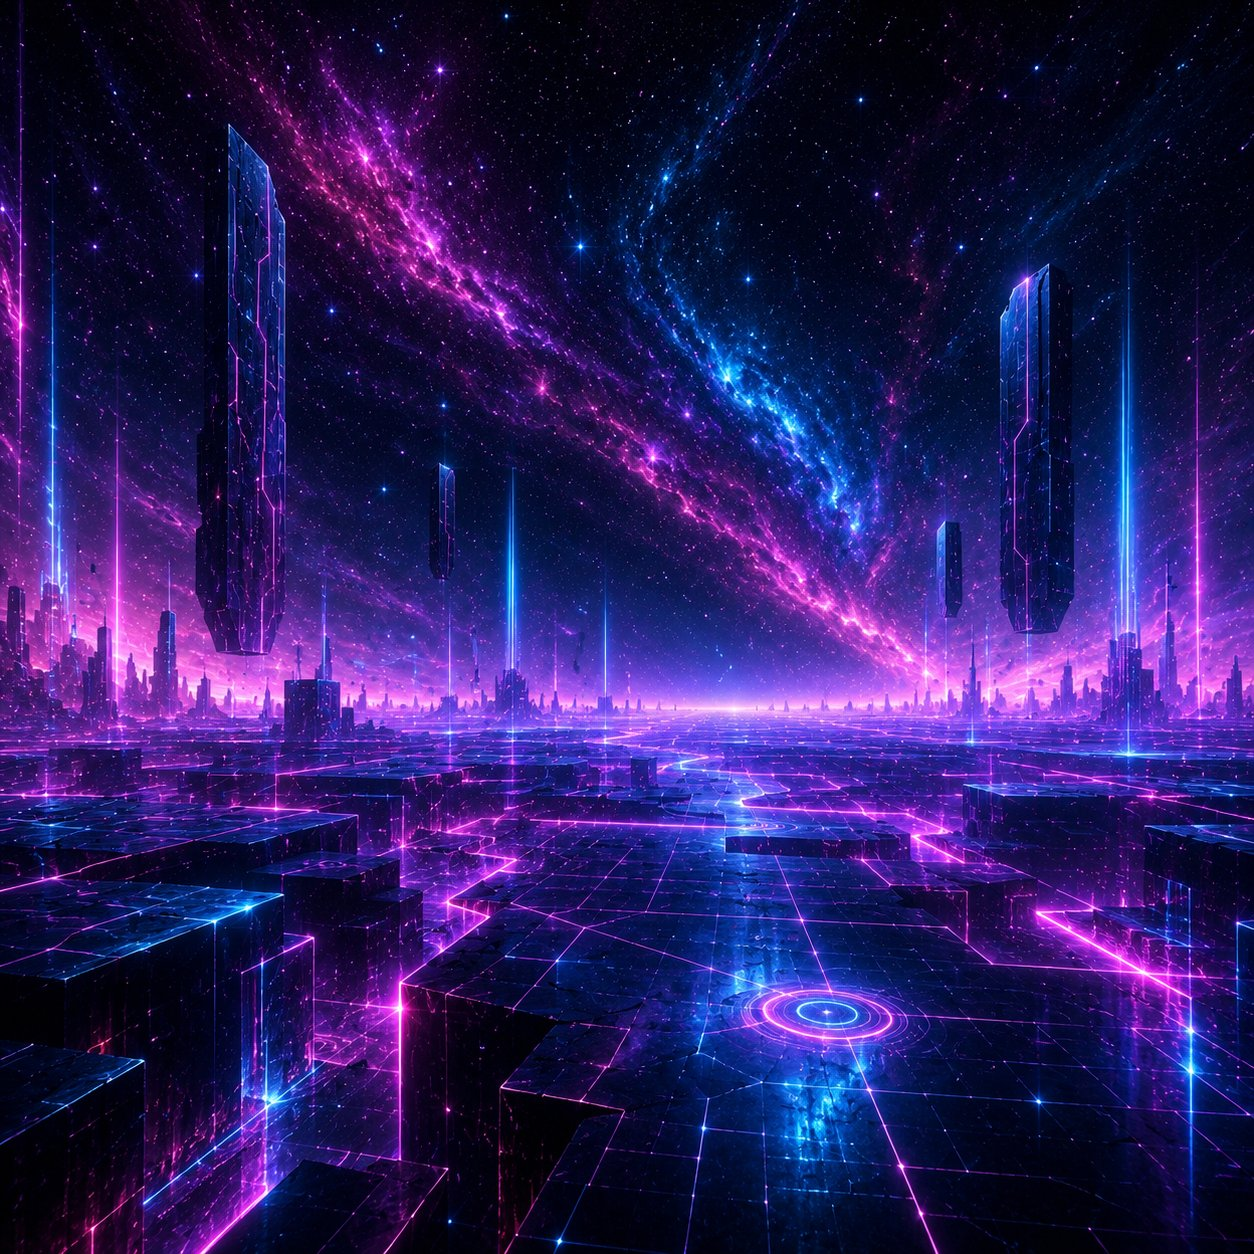
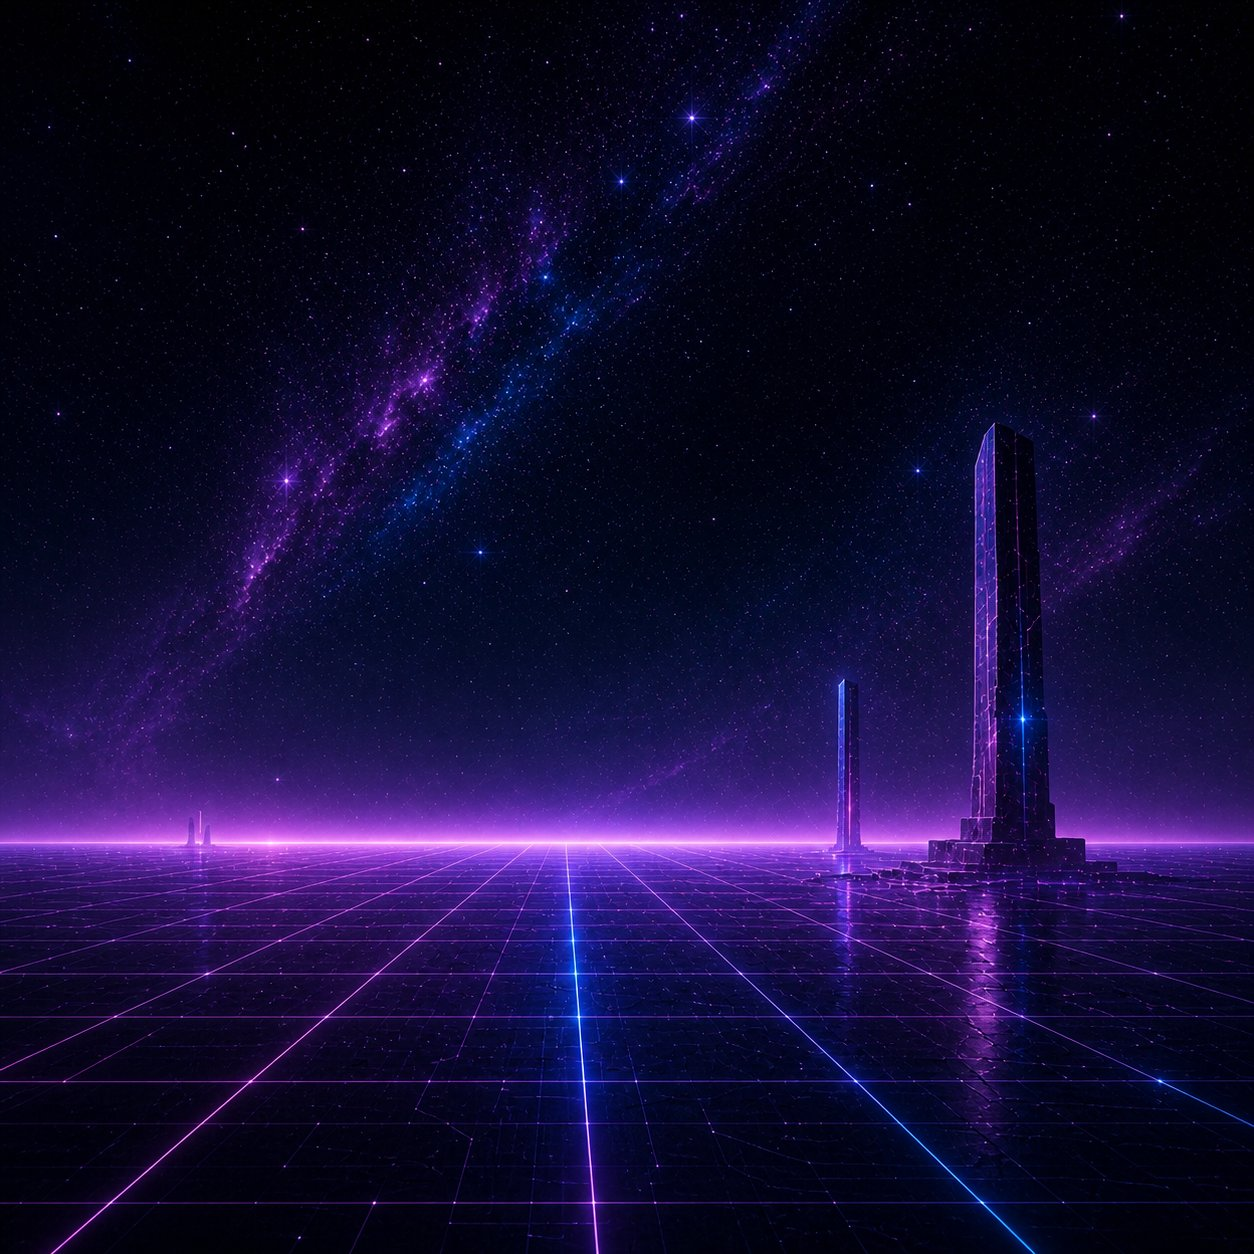
fix

diff --git a/js/scene_manager.js b/js/scene_manager.js
@@ -1539,8 +1539,14 @@ async function renderArchiveStorySlide(index) {
     isArchiveStorySlideTyping = true;
     archiveStoryFastForwardRequested = false;
 
+    fixedImageEl.classList.remove('archive-image-zooming');
+    void fixedImageEl.offsetWidth;
+
     fixedImageEl.src = slide.image || '';
     fixedImageEl.alt = slide.chapter === 0 ? 'Story Title' : `Story Chapter ${slide.chapter}`;
+
+    fixedImageEl.classList.add('archive-image-zooming');
+
     updateArchiveStoryOverlayHeader(slide);
 
     textFlow.innerHTML = '';

diff --git a/css/archive.css b/css/archive.css
@@ -263,6 +263,12 @@
     object-fit: cover;
     object-position: center center;
     image-rendering: auto;
+
+    transform-origin: center center;
+}
+
+#story-scroll-container .archive-story-image.archive-image-zooming {
+    animation: archiveImageSlowZoom 24s ease-out forwards;
 }
 
 #story-scroll-container .archive-typed-line {

diff --git a/js/version.js b/js/version.js
@@ -1,2 +1,2 @@
 // Single source of truth for cache-busting and version display.
-globalThis.NEON_GRAVITY_VERSION = '1.0.9';
+globalThis.NEON_GRAVITY_VERSION = '1.0.10';
